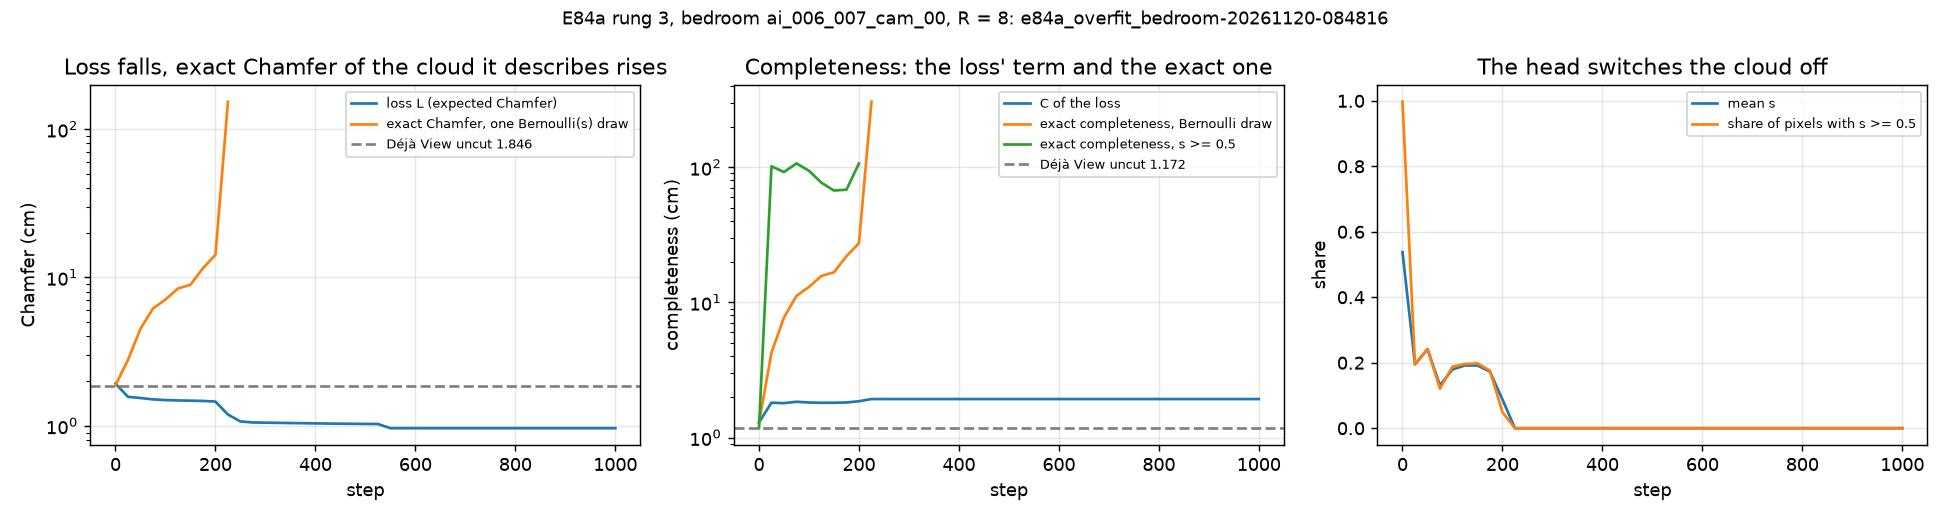
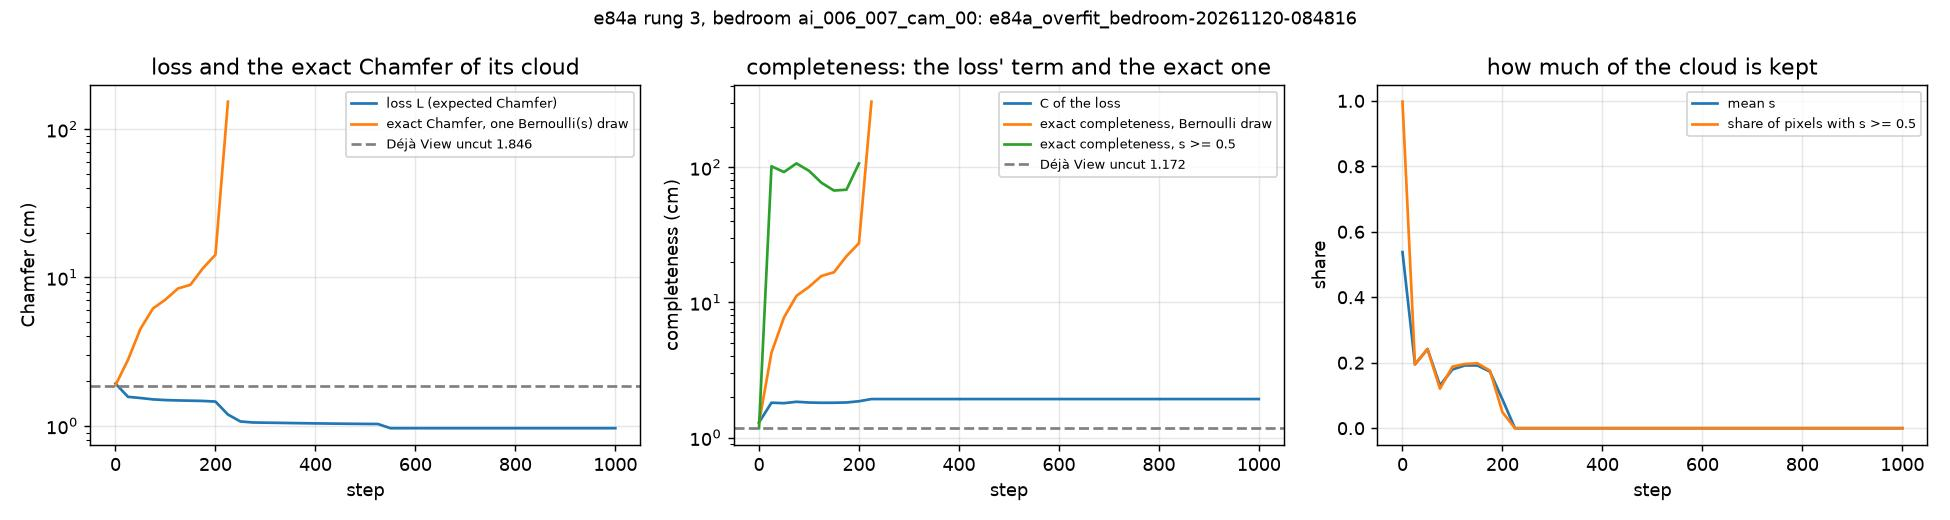
Report E84b: the upper-bound charge removes the collapse, not the stall
Bedroom rung 3 with the miss charged an upper bound: the loss tracks the
exact Chamfer of its own cloud within 0.6 %, nothing is gamed, but the
head keeps 97.5 % of the points and ends at 1.747 cm thresholded (1.723
Bernoulli) against the uncut 1.846, still falling slowly after 1000
steps. The expected 1.41 is refuted at this budget. Plan E84c: ten times
the learning rate, one change.

diff --git a/experiments/scripts/e84a_figures.py b/experiments/scripts/e84a_figures.py
@@ -1,11 +1,11 @@
 """E84a figures: the loss against the exact Chamfer over the steps, and s per view.
 
-`e84a_curves.jpg`: per step the loss L next to the exact Chamfer (cm, fixed alignment) of
+`<prefix>_curves.jpg`: per step the loss L next to the exact Chamfer (cm, fixed alignment) of
 one Bernoulli(s) draw and of the thresholded cloud, the exact completeness, and the mean s.
-`e84a_s_views.jpg` (bedroom only, views 18, 0, 12, 6 of issue #7): the image, the
+`<prefix>_s_views.jpg` (bedroom only, views 18, 0, 12, 6 of issue #7): the image, the
 prediction's distance to the GT a_i (cm), and s at each saved step, all s on [0, 1].
 
-`uv run python experiments/scripts/e84a_figures.py --run runs/<run> --out experiments/figures`
+`uv run python experiments/scripts/e84a_figures.py --run runs/<run> --out experiments/figures --prefix e84a`
 """
 
 import argparse
@@ -23,7 +23,7 @@ VIEWS = (18, 0, 12, 6)
 A_RANGE = 5.0  # cm, the colour scale of a_i
 
 
-def curves(run: Path, out: Path) -> None:
+def curves(run: Path, out: Path, prefix: str) -> None:
     """Loss and exact scores over the steps."""
     record = yaml.safe_load((run / "run.yaml").read_text())["history"]
     step = [h["step"] for h in record]
@@ -40,7 +40,7 @@ def curves(run: Path, out: Path) -> None:
         xlabel="step",
         ylabel="Chamfer (cm)",
         yscale="log",
-        title="Loss falls, exact Chamfer of the cloud it describes rises",
+        title="loss and the exact Chamfer of its cloud",
     )
     ax[1].plot(step, [h["completeness_cm"] for h in record], label="C of the loss")
     ax[1].plot(
@@ -58,7 +58,7 @@ def curves(run: Path, out: Path) -> None:
         xlabel="step",
         ylabel="completeness (cm)",
         yscale="log",
-        title="Completeness: the loss' term and the exact one",
+        title="completeness: the loss' term and the exact one",
     )
     ax[2].plot(step, [h["mean_s"] for h in record], label="mean s")
     ax[2].plot(
@@ -66,19 +66,20 @@ def curves(run: Path, out: Path) -> None:
         [e["s"]["above_half"] for e in exact],
         label="share of pixels with s >= 0.5",
     )
-    ax[2].set(xlabel="step", ylabel="share", title="The head switches the cloud off")
+    ax[2].set(xlabel="step", ylabel="share", title="how much of the cloud is kept")
     for a in ax:
         a.legend(fontsize=7)
         a.grid(alpha=0.3)
-    fig.suptitle(f"E84a rung 3, bedroom {SCENE}, R = 8: {run.name}", fontsize=10)
+    fig.suptitle(f"{prefix} rung 3, bedroom {SCENE}: {run.name}", fontsize=10)
     fig.tight_layout()
-    fig.savefig(out / "e84a_curves.jpg", dpi=130)
+    fig.savefig(out / f"{prefix}_curves.jpg", dpi=130)
     plt.close(fig)
 
 
-def maps(run: Path, out: Path) -> None:
+def maps(run: Path, out: Path, prefix: str) -> None:
     """Image, a_i and s at the saved steps for the four presentation views."""
-    cfg = yaml.safe_load((run / "run.yaml").read_text())["config"]
+    # E84a's runs predate the key `miss`, their loss charged d_(R+1)
+    cfg = {"miss": "next"} | yaml.safe_load((run / "run.yaml").read_text())["config"]
     scene = KeepScene.load(SCENE, cfg, "cpu")
     images = Views.load(Path(cfg["root"]) / SCENE / f"{cfg['views']}.npz").images
     a_map = np.zeros(scene.valid.shape, dtype=np.float32)
@@ -123,10 +124,10 @@ def maps(run: Path, out: Path) -> None:
     fig.colorbar(shown, ax=ax[1], fraction=0.02, label="cm (clipped at 5)")
     fig.colorbar(im, ax=ax[2:], fraction=0.02, label="keep probability s")
     fig.suptitle(
-        "E84a rung 3, bedroom: a_i and the head's s over the steps (shared scales; s = 1 keep)",
+        f"{prefix} rung 3, bedroom: a_i and the head's s at the saved steps (shared scales, s = 1 keep)",
         fontsize=10,
     )
-    fig.savefig(out / "e84a_s_views.jpg", dpi=110, bbox_inches="tight")
+    fig.savefig(out / f"{prefix}_s_views.jpg", dpi=110, bbox_inches="tight")
     plt.close(fig)
 
 
@@ -135,9 +136,10 @@ def main() -> None:
     parser = argparse.ArgumentParser(description=__doc__)
     parser.add_argument("--run", type=Path, required=True)
     parser.add_argument("--out", type=Path, required=True)
+    parser.add_argument("--prefix", required=True, help="figure names, e.g. e84b")
     args = parser.parse_args()
-    curves(args.run, args.out)
-    maps(args.run, args.out)
+    curves(args.run, args.out, args.prefix)
+    maps(args.run, args.out, args.prefix)
 
 
 if __name__ == "__main__":

diff --git a/experiments/LOG.md b/experiments/LOG.md
@@ -7225,3 +7225,46 @@ Interim entry: the check that the plan puts before any table.
   question.
 - **Command:** `uv run python experiments/scripts/e84a_train.py --cfg configs/e84b_overfit_bedroom.yaml`; rung 4 and the dev
   evaluation only if rung 3 passes.
+
+## E84b: charging a miss an upper bound removes the collapse, and the head is stable and honest but stays at 97.5 % kept; bedroom thresholded Chamfer 1.747 against the uncut 1.846, still falling at step 1000 (bedroom, 20.11.2026)
+- **Command** (RTX 3080, tree dirty = the new files, base 25868a7): `uv run python experiments/scripts/e84a_train.py
+  --cfg configs/e84b_overfit_bedroom.yaml` -> `runs/e84b_overfit_bedroom-20261120-085532`: E84a's rung 3 with
+  `miss: bound` (U = 100 (max |t - c| + max |p - c|) cm), nothing else. Figures `figures/e84b_{curves,s_views}.jpg`,
+  looked at. A test shows the loss with this charge is an upper bound of the brute-force completeness and equal to it
+  when every GT point keeps a probe.
+- **Result** (cm, fixed alignment; Déjà View uncut 1.846 = A 2.520 / C 1.172; exact = KD-tree on the cloud):
+
+  | step | L | mean s | s in (0.05, 0.95) | exact Chamfer, Bernoulli draw (A / C, kept) | exact Chamfer, s >= 0.5 (A / C, kept) |
+  |---|---|---|---|---|---|
+  | 0 | 3.099 | 0.538 | 1.00 | 1.902 (2.554 / 1.250, 0.66) | 1.846 (all kept) |
+  | 25 | 1.843 | 0.973 | 0.05 | 1.842 (2.508 / 1.177, 0.97) | 1.846 |
+  | 100 | 1.793 | 0.919 | 0.56 | 1.784 (2.368 / 1.201, 0.92) | 1.795 (2.410 / 1.179, 0.99) |
+  | 500 | 1.753 | 0.904 | 0.41 | 1.745 (2.285 / 1.204, 0.90) | 1.770 (2.358 / 1.181, 0.985) |
+  | 1000 | 1.733 | 0.901 | 0.36 | 1.723 (2.246 / 1.201, 0.90) | **1.747** (2.311 / 1.183, 0.975) |
+
+  The loss tracks the exact Chamfer of its own cloud within 0.6 % from step 25 on (1.733 against 1.723 at step 1000), the
+  gaming of E84a is gone, and the exact completeness never leaves 1.17-1.23 cm. 0.34 s per step (E84a 0.22: the
+  GPU was shared).
+- **Against what was expected (written before running):** (a) collapse: no; the head keeps 97.5 % at s >= 0.5. (b) stays
+  at the uncut cloud: nearly; step 25 is the all-keep state (mean s 0.973, 1.842) and the loss then falls only 0.1 cm in
+  975 steps, 1.747 thresholded and 1.723 Bernoulli, 5.4 % and 6.7 % below the uncut cloud, and it is still falling at
+  the end (-0.006 cm per 125 steps). (c) thresholded Chamfer below the accuracy oracle's 1.41: **refuted** at this
+  budget (1.747). Bernoulli within 10 % of L: yes (0.6 %). The loss and the exact Chamfer agree, so what fails is the
+  descent, not the objective.
+- **Reading** (hypotheses, not tested): the first 25 steps push every s to 1 to remove the miss charge (U P(miss) is 1000
+  times a centimetre), and from there a fractional s costs: at s = 0.6 a GT point misses with 0.4^8 = 7e-4, times U
+  of about 10 m. Dropping a point is cheap only when its GT neighbours' other probes sit at s = 1, a structured
+  (binary) state the gradient at a uniform s = 0.9 does not point to. Figure: after 1000 steps s is low (0.4-0.6) on
+  the far walls of views 12 and 6, where a_i is largest, and dips on depth edges, so the head learned the
+  accuracy ordering, but nowhere low enough to pay. The sigmoid saturating near 1 (s = 0.97 has a gradient factor of 0.03)
+  also slows it. Whether 10 times the learning rate escapes this (optimization) or not (landscape, or the 3 x 3 field) is
+  the next, single change: E84c.
+- **Limits:** one scene, one seed, one learning rate, 1000 steps; rung 3 not passed, so no dev rung and no dev evaluation.
+
+## Plan: E84c, E84b with ten times the learning rate (issue #84, 20.11.2026)
+- **Change:** `lr: 1.0e-2` (E84b: 1.0e-3), `configs/e84c_overfit_bedroom.yaml`, 1000 steps, all else as E84b; one change.
+- **Hypothesis, written before running:** E84b is optimization-limited, not landscape-limited: with 10 times the step the
+  bedroom's thresholded exact Chamfer falls below 1.41 cm within 1000 steps and the kept share below 80 %.
+  **Refuted** if it ends above 1.41 (then the descent stalls in the landscape or the 3 x 3 field and a larger lr does not
+  help; I expect then 1.6-1.75), or if it collapses or diverges (nothing kept, NaN). If it reaches 1.41 only at a
+  fractional s with Bernoulli far from the threshold, reported as such.
